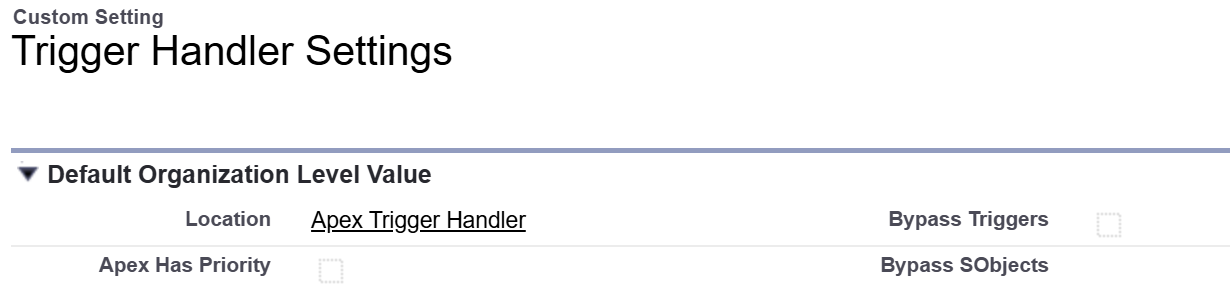
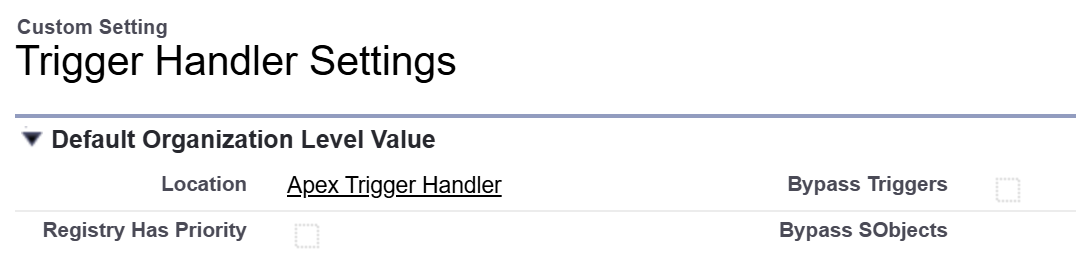
update readme

diff --git a/README.md b/README.md
@@ -20,8 +20,6 @@ The Salesforce Apex trigger framework for clean, scalable, and maintainable auto
 - Support custom metadata type settings to register trigger handlers. ([jump to section](#12-bind-with-handler-settings))
 - **Improve Consistency** (v1.2.1): Ids returned by `props.filterChangedAny` and `props.filterChangedAll` are now in the same Id orders of `props.newList`.
 
----
-
 ## Table of Contents
 
 - [1. Setting](#1-setting)
@@ -33,22 +31,20 @@ The Salesforce Apex trigger framework for clean, scalable, and maintainable auto
   - [2.3 Bind with Both](#23-bind-with-both)
 - [3. Handler](#3-handler)
   - [3.1 Implementation](#31-implementation)
-  - [3.2 Error Handling](#32-error-handling)
+  - [3.2 Skipping Handlers](#32-skipping-handlers)
+  - [3.3 Error Handling](#33-error-handling)
 - [4. Props](#4-props)
 - [5. States](#5-states)
   - [5.1 Implicit State](#51-implicit-state)
   - [5.2 Explicit State](#52-explicit-state)
-- [6. Skipping Handlers](#6-skipping-handlers)
-  - [6.1 Skipping Within a Handler](#61-skipping-within-a-handler)
-  - [6.2 Skipping Outside a Handler](#62-skipping-outside-a-handler)
-- [7. Tests](#7-tests)
-  - [7.1 Test with Mockup Data](#71-test-with-mockup-data)
-  - [7.2 Test with Mockup Library](#72-test-with-mockup-library)
-- [8. APIs](#8-apis)
-  - [8.1 Trigger Handler Interfaces](#81-trigger-handler-interfaces)
-  - [8.2 Triggers.Context](#82-triggerscontext)
-  - [8.3 Triggers.Props](#83-triggersprops)
-- [9. License](#9-license)
+- [6. Tests](#6-tests)
+  - [6.1 Test with Mockup Data](#61-test-with-mockup-data)
+  - [6.2 Test with Mockup Library](#62-test-with-mockup-library)
+- [7. APIs](#7-apis)
+  - [7.1 Trigger Handler Interfaces](#71-trigger-handler-interfaces)
+  - [7.2 Triggers.Context](#72-triggerscontext)
+  - [7.3 Triggers.Props](#73-triggersprops)
+- [8. License](#8-license)
 
 ## 1. Setting
 
@@ -107,7 +103,7 @@ trigger AccountTrigger on Account (before update, after update) {
 
 ### 2.3 Bind with Both
 
-You can register trigger handlers using both metadata and Apex code simultaneously. By default, handlers registered via metadata are loaded automatically and take precedence. If you want handlers registered in Apex code to have priority, adjust the `Registry Has Priority` setting as described above.
+You can register trigger handlers using both metadata and Apex code simultaneously. By default, handlers registered in Apex code are loaded automatically and take precedence. If you want handlers registered via metadata to have priority, adjust the `Registry Has Priority` setting as described above.
 
 ```java
 trigger AccountTrigger on Account (before update, after update) {
@@ -153,7 +149,19 @@ public class AccountTriggerHandler implements Triggers.BeforeInsert, Triggers.Be
 }
 ```
 
-### 3.2 Error Handling
+### 3.2 Skipping Handlers
+
+You can skip specific handlers in your Apex code as shown below:
+
+```java
+// Skip the AccountTriggerHandler during this operation.
+Triggers.skips.add(AccountTriggerHandler.class);
+insert accounts;
+// Restore the handler after the operation.
+Triggers.skips.remove(AccountTriggerHandler.class);
+```
+
+### 3.3 Error Handling
 
 You can centralize exception handling for all subsequent handlers by implementing a dedicated error handler. This ensures that any exceptions thrown by handlers executed after `context.next()` are caught and managed in a single location. For example:
 
@@ -165,6 +173,7 @@ public class ErrorTriggerHandler implements Triggers.BeforeInsert {
 
     public void beforeInsert(Triggers.Context context) {
         try {
+            // Run all subsequent handlers.
             context.next();
         } catch (Exception ex) {
             // Handle exceptions from subsequent handlers here
@@ -195,6 +204,8 @@ public class AccountTriggerHandler implements Triggers.BeforeInsert {
 
 ## 5. States
 
+Use `context.states` to manage state objects. This is a singleton, meaning it is shared across different triggers within the same transaction.
+
 ### 5.1 Implicit State
 
 State objects are automatically initialized the first time they are accessed.
@@ -209,12 +220,11 @@ public class AccountTriggerHandler implements Triggers.BeforeInsert {
         // Retrieve and update a state instance as needed.
         CounterState state = (CounterState) context.states.get(CounterState.class);
         ++state.counter;
-
-        // Remove unused state instances to free resources.
-        context.states.remove(CounterState.class);
     }
 }
 ```
+
+State classes must implement the `Triggers.State` interface. This interface does not require any methods to be implemented.
 
 ```java
 public class CounterState implements Triggers.State {
@@ -224,21 +234,7 @@ public class CounterState implements Triggers.State {
 
 ### 5.2 Explicit State
 
-State objects can also be set in advance and accessed later. Because both `Triggers.states` and `context.states` refer to the same singleton instance.
-
-```java
-Triggers.states.put(AccountState.class, new AccountState(contactList, orderList));
-insert accounts; // Handlers can consume the pre-set AccountState.
-Triggers.states.remove(AccountState.class);
-```
-
-## 6. Skipping Handlers
-
-The global static variable `Triggers.skips` and `context.skips` reference the same singleton instance. This allows you to skip specific handlers both inside and outside handler contexts.
-
-### 6.1 Skipping Within a Handler
-
-You can temporarily skip other handlers from within a handler using `context.skips`:
+You can also explicitly set state objects and access them later.
 
 ```java
 public class AccountTriggerHandler implements Triggers.BeforeInsert {
@@ -247,32 +243,14 @@ public class AccountTriggerHandler implements Triggers.BeforeInsert {
     }
 
     public void beforeInsert(Triggers.Context context) {
-        // Temporarily skip ContactHandler.
-        context.skips.add(ContactHandler.class);
-        insert contacts;
-        // Restore the handler when done.
-        context.skips.remove(ContactHandler.class);
+        context.states.put(AccountState.class, new AccountState());
     }
 }
 ```
 
-### 6.2 Skipping Outside a Handler
+## 6. Tests
 
-You can also skip handlers outside of trigger handler contexts, such as in a batch class:
-
-```java
-global class AccountUpdateBatch implements Database.Batchable<SObject> {
-    global void execute(Database.BatchableContext context, List<SObject> scope) {
-        Triggers.skips.add(MyAccountHandler.class);
-        insert accounts;
-        Triggers.skips.remove(MyAccountHandler.class);
-    }
-}
-```
-
-## 7. Tests
-
-### 7.1 Test with Mockup Data
+### 6.1 Test with Mockup Data
 
 The following method is private but `@TestVisible`, it can be used in test methods to supply mockup records for old and new lists. So we don't need to perform DMLs to trigger the handlers.
 
@@ -294,7 +272,7 @@ static void test_AccountTriggerHandler_BeforeUpdate {
 }
 ```
 
-### 7.2 Test with Mockup Library
+### 6.2 Test with Mockup Library
 
 The following demo is using [Apex Test Kit](https://github.com/apexfarm/ApexTestKit) as a mockup data library. The behavior will be the same as the above example, but a sophisticated mock data library can also generate mockup data with read-only fields, such as formula fields, roll-up summary fields and system fields.
 
@@ -316,9 +294,9 @@ static void test_AccountTriggerHandler_BeforeUpdate {
 }
 ```
 
-## 8. APIs
+## 7. APIs
 
-### 8.1 Trigger Handler Interfaces
+### 7.1 Trigger Handler Interfaces
 
 | Interface               | Method to Implement                                |
 | ----------------------- | -------------------------------------------------- |
@@ -331,7 +309,7 @@ static void test_AccountTriggerHandler_BeforeUpdate {
 | Triggers.AfterDelete    | `void afterDelete(Triggers.Context context);`      |
 | Triggers.BeforeUndelete | `void afterUndelete(Triggers.Context context);`    |
 
-### 8.2 Triggers.Context
+### 7.2 Triggers.Context
 
 | Property/Method | Type                | Description                                                                                                                                                                                 |
 | --------------- | ------------------- | ------------------------------------------------------------------------------------------------------------------------------------------------------------------------------------------- |
@@ -341,7 +319,7 @@ static void test_AccountTriggerHandler_BeforeUpdate {
 | context.next()  | void                | Call the next handler.                                                                                                                                                                      |
 | context.stop()  | void                | Stop execute any following handlers. A bit like the the stop in process builders.                                                                                                           |
 
-### 8.3 Triggers.Props
+### 7.3 Triggers.Props
 
 #### Properties
 
@@ -382,6 +360,6 @@ static void test_AccountTriggerHandler_BeforeUpdate {
 | - `filterChangedAny(SObjectField field1, SObjectField field2)`<br/>- `filterChangedAny(SObjectField field1, SObjectField field2, SObjectField field3)`<br/>- `filterChangedAny(List<SObjectField> fields)` | List\<Id\> | Filter IDs of records have multiple fields changed during an update. Return IDs if any specified field is changed.        |
 | - `filterChangedAll(SObjectField field1, SObjectField field2)`<br/>- `filterChangedAll(SObjectField field1, SObjectField field2, SObjectField field3)`<br/>- `filterChangedAll(List<SObjectField> fields)` | List\<Id\> | Filter IDs of records have multiple fields changed during an update. Return IDs only if all specified fields are changed. |
 
-## 9. License
+## 8. License
 
 BSD 3-Clause License
